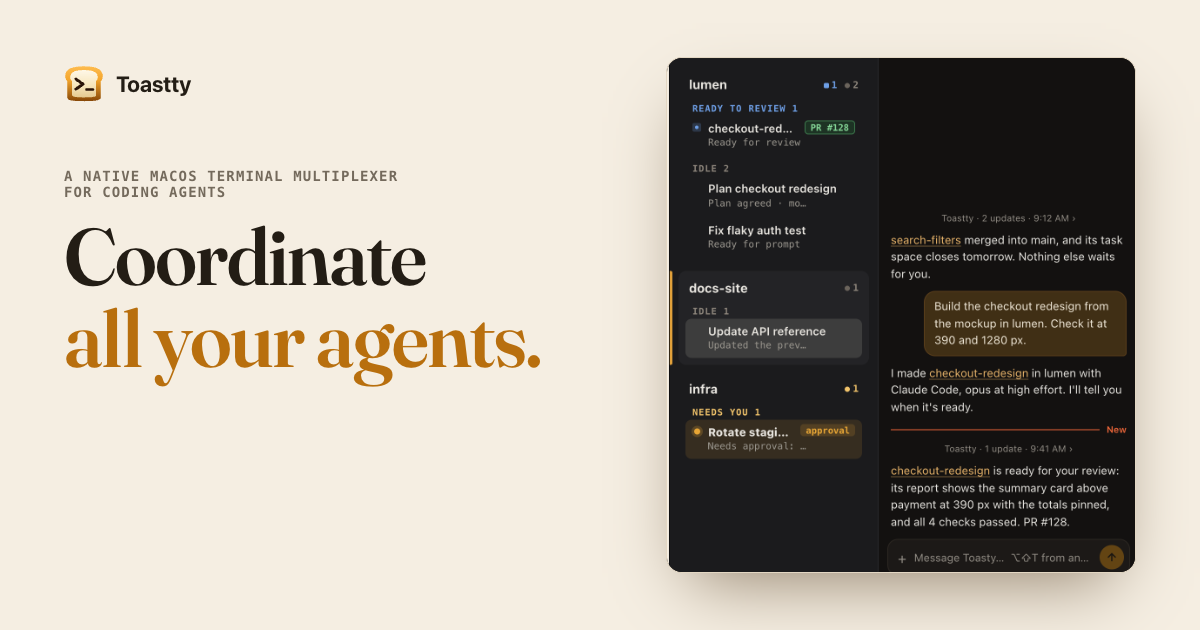
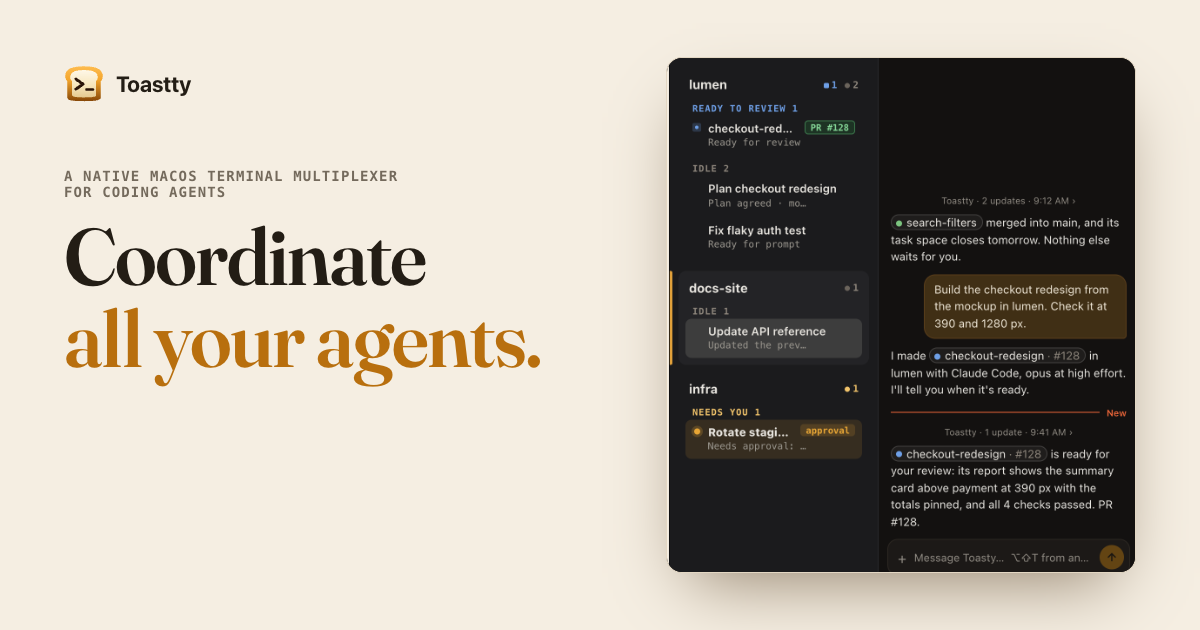
Match the website's recreations to the app's screenshots
Compared the recreations with the real app captures in pull request 416
and the app source:

- Tasks named in the coordinator's chat are chips with the task's stage
  mark and PR number, as the Mac and iPhone draw them, not underlined
  links. In the hero, the chips follow the task from starting to done.
- Quick entry's pills show an icon and "Auto" with no label, and the
  footer has the esc key and the Create button before Send.
- The Tasks view's detail pane shows the task's title and its request,
  Stage "Review", "PR #128 · open", the agent as "claude · opus", and
  Open Task Space, Open PR, Merge and Archive in the app's order. Review
  rows show their status after the PR.
- Re-rendered the social card, whose close-up shows the dock.

Claude-Session: https://claude.ai/code/session_01Dn8sFjqtSaqdteQy24FTcG

Changed region(s): [[0.74, 0.3016, 0.9558, 0.8444]]

diff --git a/website/index.html b/website/index.html
@@ -63,6 +63,8 @@
   <symbol id="ic-expand" viewBox="0 0 24 24"><path d="M14 4h6v6"/><path d="M20 4l-7 7"/><path d="M10 20H4v-6"/><path d="M4 20l7-7"/></symbol>
   <symbol id="ic-hide-dock" viewBox="0 0 24 24"><path d="M4 4v16"/><path d="M20 12H9"/><path d="m13 7-5 5 5 5"/></symbol>
   <symbol id="ic-house" viewBox="0 0 24 24"><path d="M3 11.5 12 4l9 7.5"/><path d="M5.5 10v10h13V10"/><path d="M10 20v-5h4v5"/></symbol>
+  <symbol id="ic-grid4" viewBox="0 0 24 24"><rect x="3.5" y="3.5" width="7" height="7" rx="1.5"/><rect x="13.5" y="3.5" width="7" height="7" rx="1.5"/><rect x="3.5" y="13.5" width="7" height="7" rx="1.5"/><rect x="13.5" y="13.5" width="7" height="7" rx="1.5"/></symbol>
+  <symbol id="ic-sparkle" viewBox="0 0 24 24"><path d="M12 2.5C12.9 8 16 11.1 21.5 12C16 12.9 12.9 16 12 21.5C11.1 16 8 12.9 2.5 12C8 11.1 11.1 8 12 2.5Z"/></symbol>
   <symbol id="ic-merge" viewBox="0 0 24 24"><path d="M12 3v7c0 3-5 5-5 8v3"/><path d="M12 10c0 3 5 5 5 8v3"/><path d="m8.5 6.5 3.5-3.5 3.5 3.5"/></symbol>
 </svg>
 
@@ -144,14 +146,14 @@
           <div class="dock-h"><svg viewBox="0 0 16 16"><use href="#toasty-gold"/></svg><b>Coordinator</b><em id="dock-st">working</em><span><svg viewBox="0 0 24 24"><use href="#ic-expand"/></svg><svg viewBox="0 0 24 24"><use href="#ic-hide-dock"/></svg></span></div>
           <div class="dock-x">
             <div class="dock-dig always">Toastty · 2 updates · 9:12 AM ›</div>
-            <div class="dock-at always"><span class="tlink">search-filters</span> merged into main, and its task space closes tomorrow. Nothing else waits for you.</div>
+            <div class="dock-at always"><span class="tlink done">search-filters</span> merged into main, and its task space closes tomorrow. Nothing else waits for you.</div>
             <div class="dock-ub" data-at="2.8">Build the checkout redesign from the mockup in lumen. Check it at 390 and 1280 px.</div>
-            <div class="dock-at" data-at="3.9">I made <span class="tlink">checkout-redesign</span> in lumen with Claude Code, opus at high effort. I'll tell you when it's ready.</div>
+            <div class="dock-at" data-at="3.9">I made <span class="tlink tl-cr">checkout-redesign<span class="tl-d">&nbsp;·&nbsp;#128</span></span> in lumen with Claude Code, opus at high effort. I'll tell you when it's ready.</div>
             <div class="dock-new" data-at="15.0" data-until="19.8">New</div>
             <div class="dock-dig" data-at="15.0">Toastty · 1 update · 9:41 AM ›</div>
-            <div class="dock-at" data-at="15.4"><span class="tlink">checkout-redesign</span> is ready for your review: its report shows the summary card above payment at 390 px with the totals pinned, and all 4 checks passed. PR #128.</div>
+            <div class="dock-at" data-at="15.4"><span class="tlink tl-cr">checkout-redesign<span class="tl-d">&nbsp;·&nbsp;#128</span></span> is ready for your review: its report shows the summary card above payment at 390 px with the totals pinned, and all 4 checks passed. PR #128.</div>
             <div class="dock-ub" data-at="19.8">merge it</div>
-            <div class="dock-at" data-at="20.6">Asked <span class="tlink">checkout-redesign</span>'s agent to merge PR #128.</div>
+            <div class="dock-at" data-at="20.6">Asked <span class="tlink tl-cr">checkout-redesign<span class="tl-d">&nbsp;·&nbsp;#128</span></span>'s agent to merge PR #128.</div>
             <div class="dock-wk" id="dock-wk"><span class="spin"></span><span id="dock-wk-t">working · 1s</span></div>
           </div>
           <div class="dock-f" id="dock-f"><span class="plus">+</span><span class="dock-in"><span class="dock-ph" id="dock-ph">Message Toasty…&nbsp;&nbsp;⌥⇧T from anywhere</span><span id="dock-typed"></span><span class="caret"></span></span><span class="dock-send" id="dock-send"><svg viewBox="0 0 24 24"><path d="M12 19V5"/><path d="m5 12 7-7 7 7"/></svg><i></i></span></div>
@@ -462,10 +464,10 @@
             <div class="cc-h"><svg viewBox="0 0 16 16"><use href="#toasty-gold"/></svg><b>Coordinator</b><span><svg viewBox="0 0 24 24"><use href="#ic-expand"/></svg><svg viewBox="0 0 24 24"><use href="#ic-hide-dock"/></svg></span></div>
             <div class="dock-x">
               <div class="dock-ub always">Add a CSV export to the orders page, like this mockup.<small>▣ csv-export.png</small></div>
-              <div class="dock-at always">I made <span class="tlink">csv-export</span> in lumen with Codex, at high effort. I'll tell you when it's ready.</div>
+              <div class="dock-at always">I made <span class="tlink run">csv-export</span> in lumen with Codex, at high effort. I'll tell you when it's ready.</div>
               <div class="dock-new always">New</div>
               <div class="dock-dig always">Toastty · 1 update · 10:52 AM ›</div>
-              <div class="dock-at always"><span class="tlink">checkout-redesign</span> is ready for your review: the report shows the summary card above payment at 390 px, and all 4 checks passed. PR #128.</div>
+              <div class="dock-at always"><span class="tlink rev has-pr">checkout-redesign<span class="tl-d">&nbsp;·&nbsp;#128</span></span> is ready for your review: the report shows the summary card above payment at 390 px, and all 4 checks passed. PR #128.</div>
             </div>
             <div class="cc-f">Message Toasty…<b>⌥⇧T from anywhere</b></div>
           </div>
@@ -475,14 +477,14 @@
       <p>Toasty is an agent that follows your tasks. It picks the project and the agent, keeps stuck work moving, and brings you what is ready. Its chat stays docked beside your work; <kbd>⇧⌘K</kbd> opens it.</p>
     </div>
     <div>
-      <div class="tshot" role="img" aria-label="Quick entry over another app, sending to the coordinator: a sentence about the coupon row, an attached screenshot, Workspace and Agent left on Auto, and Send.">
+      <div class="tshot" role="img" aria-label="Quick entry over another app, sending to the coordinator: a sentence about the coupon row, an attached screenshot, the workspace and agent left on Auto, and the Create and Send buttons.">
         <div class="tshot-in">
           <div class="qe-desk"><div class="qe-app"><div class="bar"><i></i><i></i><i></i></div><div class="ln2" style="width:40%"></div><div class="ln2"></div><div class="shot2"></div></div></div>
           <div class="qe">
             <div class="qe-h"><i></i>TO COORDINATOR</div>
             <div class="qe-t">The coupon row hides under the totals bar at 390 px. Screenshot attached.</div>
             <div class="qe-a"><span class="qe-file"><i></i>Screenshot 10.42.png</span><span class="qe-add">+ Attach <span class="qe-k">⌘V</span></span></div>
-            <div class="qe-f"><span class="qe-pill">Workspace <b>Auto</b> <span class="qe-k">⌘1</span></span><span class="qe-pill">Agent <b>Auto</b> <span class="qe-k">⌘2</span></span><span class="qe-go">Send <span class="qe-k">⌘↩</span></span></div>
+            <div class="qe-f"><span class="qe-pill"><svg viewBox="0 0 24 24"><use href="#ic-grid4"/></svg><b>Auto</b> <span class="qe-k">⌘1</span></span><span class="qe-pill"><svg viewBox="0 0 24 24"><use href="#ic-sparkle"/></svg><b>Auto</b> <span class="qe-k">⌘2</span></span><span class="qe-k qe-esc">esc</span><span class="qe-btn">Create <span class="qe-k">⌥⌘↩</span></span><span class="qe-go">Send <span class="qe-k">⌘↩</span></span></div>
           </div>
         </div>
       </div>
@@ -498,17 +500,18 @@
               <div class="tv-g y">NEEDS YOU 1</div>
               <div class="tv-r"><span class="tmark q">?</span><b>api-v2-reference</b><em>8m</em><small><span class="ws">docs-site</span>Asks: Keep the v1 payload page?</small></div>
               <div class="tv-g bl">READY TO REVIEW 2</div>
-              <div class="tv-r sel"><span class="tmark rev"></span><b>checkout-redesign</b><em>now</em><small><span class="ws">lumen</span><span class="pr">PR #128</span>feat/checkout-redesign</small></div>
-              <div class="tv-r"><span class="tmark rev"></span><b>coupon-row-fix</b><em>4m</em><small><span class="ws">lumen</span><span class="pr">PR #131</span>fix/coupon-row-fix</small></div>
+              <div class="tv-r sel"><span class="tmark rev"></span><b>checkout-redesign</b><em>now</em><small><span class="ws">lumen</span><span class="pr">PR #128</span>Ready for your review</small></div>
+              <div class="tv-r"><span class="tmark rev"></span><b>coupon-row-fix</b><em>4m</em><small><span class="ws">lumen</span><span class="pr">PR #131</span>Ready for your review</small></div>
               <div class="tv-g">RUNNING 1</div>
               <div class="tv-r"><span class="spin"></span><b>csv-export</b><em>1m</em><small><span class="ws">lumen</span>Moving to worktree</small></div>
               <div class="tv-g pu">TO SHIP 1</div>
             </div>
             <div class="tv-d">
               <div class="tv-src">Created by an agent · 24m ago · lumen</div>
-              <h4>Build the checkout redesign from the mockup in lumen</h4>
-              <div class="tv-card"><div class="hd">STATUS</div><dl><dt>Stage</dt><dd>Ready to review</dd><dt>PR</dt><dd>#128 · <span class="ok">checks passed</span></dd><dt>Branch</dt><dd class="mono2">feat/checkout-redesign</dd><dt>Agent</dt><dd>Claude Code · opus · high</dd></dl></div>
-              <div class="tv-b"><span class="tv-btn pri">Merge</span><span class="tv-btn">Open Task Space</span><span class="tv-btn">Open PR #128</span><span class="tv-btn">Archive…</span></div>
+              <h4>checkout-redesign</h4>
+              <div class="tv-req">Build the checkout redesign from the mockup in lumen.</div>
+              <div class="tv-card"><div class="hd">STATUS</div><dl><dt>Stage</dt><dd>Review</dd><dt>PR</dt><dd>PR #128 · open</dd><dt>Branch</dt><dd class="mono2">feat/checkout-redesign</dd><dt>Agent</dt><dd>claude · opus</dd></dl></div>
+              <div class="tv-b"><span class="tv-btn pri">Open Task Space</span><span class="tv-btn">Open PR #128</span><span class="tv-btn pri">Merge</span><span class="tv-btn">Archive…</span></div>
             </div>
           </div>
         </div>
@@ -639,14 +642,14 @@
               <div class="screen coord" id="s-coord">
                 <div class="chead"><b><svg viewBox="0 0 16 16"><use href="#toasty-gold"/></svg>Coordinator <span>⌄</span></b><small>· claude</small></div>
                 <div class="ctx">
-                  <div class="tr at always"><span class="tlink">search-filters</span> merged into main. Nothing else waits for you.</div>
+                  <div class="tr at always"><span class="tlink done">search-filters</span> merged into main. Nothing else waits for you.</div>
                   <div class="tr ub" data-at="11.4"><span>Add a CSV export to the orders page, like the mockup in lumen.</span></div>
-                  <div class="tr at" data-at="12.5">I made <span class="tlink">csv-export</span> in lumen with Codex, at high effort. I'll tell you when it's ready.</div>
+                  <div class="tr at" data-at="12.5">I made <span class="tlink run">csv-export</span> in lumen with Codex, at high effort. I'll tell you when it's ready.</div>
                   <div class="tr cnew" data-at="13.6" data-until="16.5">New</div>
                   <div class="tr cdig" data-at="13.6">Toastty · 1 update · 4:12 PM ›</div>
-                  <div class="tr at" data-at="14.0"><span class="tlink">checkout-redesign</span> is ready for your review: the report shows the summary card above payment at 390 px, and all 4 checks passed. PR #128.</div>
+                  <div class="tr at" data-at="14.0"><span class="tlink rev has-pr">checkout-redesign<span class="tl-d">&nbsp;·&nbsp;#128</span></span> is ready for your review: the report shows the summary card above payment at 390 px, and all 4 checks passed. PR #128.</div>
                   <div class="tr ub" data-at="16.5"><span>merge it</span></div>
-                  <div class="tr at" data-at="17.5">Asked <span class="tlink">checkout-redesign</span>'s agent to merge PR #128.</div>
+                  <div class="tr at" data-at="17.5">Asked <span class="tlink rev has-pr">checkout-redesign<span class="tl-d">&nbsp;·&nbsp;#128</span></span>'s agent to merge PR #128.</div>
                   <div class="tr wrow" id="cwrow"><span class="spin"></span><span id="cwrow-t">working · 1s</span></div>
                 </div>
                 <div class="comp" id="ccomp">

diff --git a/website/styles.css b/website/styles.css
@@ -309,7 +309,14 @@ h1 em { display: block; color: var(--amber); font-style: normal; }
 .dock-x > .show, .dock-x > .always { opacity: 1; max-height: 220px; margin-top: 10px; transform: none; }
 .dock-x > :not(.show):not(.always) { padding-top: 0; padding-bottom: 0; border-width: 0; }
 .dock-ub { align-self: flex-end; max-width: 86%; background: #402F15; border: 1px solid #5A3E1B; color: #F0E8D8; border-radius: 13px 13px 4px 13px; padding: 7px 11px; }
-.tlink { color: #E8B46A; text-decoration: underline; text-decoration-color: rgba(232, 180, 106, 0.45); text-underline-offset: 2px; }
+/* A task named in the coordinator's chat is a chip: its stage mark, its title and its PR number. */
+.tlink { white-space: nowrap; color: #ECE9E3; border: 1px solid rgba(255, 255, 255, 0.16); background: rgba(255, 255, 255, 0.05); border-radius: 999px; padding: 0 6px 0 5px; }
+.tlink::before { content: ""; display: inline-block; box-sizing: border-box; width: 7px; height: 7px; margin-right: 5px; border-radius: 50%; background: #8F877D; vertical-align: 0.04em; }
+.tlink.rev::before { background: #6E9FE6; }
+.tlink.done::before { background: #7CC47F; }
+.tlink.run::before { background: none; border: 1.4px solid #f0a53a; border-right-color: transparent; animation: spin 0.9s linear infinite; }
+.tlink .tl-d { color: #8F877D; }
+.tlink:not(.has-pr) .tl-d { display: none; }
 .dock-new { display: flex; align-items: center; gap: 8px; font: 600 10.5px var(--sans); color: #F2683A; }
 .dock-new::before { content: ""; flex: 1; height: 1px; background: #F2683A; }
 .dock-dig { align-self: center; font: 10.5px var(--sans); color: #928D85; }
@@ -374,12 +381,15 @@ h1 em { display: block; color: var(--amber); font-style: normal; }
 .qe-file i { width: 30px; height: 22px; border-radius: 4px; background: linear-gradient(180deg, #f4f5f7 0 60%, #f2c4c5 60%); }
 .qe-add { border: 1px dashed #4a4a50; border-radius: 8px; padding: 3px 10px; font: 12px var(--sans); color: #9b978f; }
 .qe-f { display: flex; align-items: center; gap: 8px; padding: 10px 12px; border-top: 1px solid #343438; }
-.qe-pill { display: inline-flex; align-items: center; gap: 6px; border: 1px solid #4a3d22; background: #2a2215; border-radius: 7px; padding: 3px 8px; font: 12px var(--sans); color: #b9b4aa; white-space: nowrap; }
-.qe-pill b { color: #b9b4aa; font-weight: 500; }
+.qe-pill { display: inline-flex; align-items: center; gap: 6px; border: 1px solid #3c3c40; border-radius: 7px; padding: 3px 8px; font: 12px var(--sans); color: #9b978f; white-space: nowrap; }
+.qe-pill svg { width: 11px; height: 11px; fill: none; stroke: #9b978f; stroke-width: 2; stroke-linejoin: round; }
+.qe-pill b { color: #9b978f; font-weight: 500; }
+.qe-esc { margin-left: auto; }
+.qe-btn { display: inline-flex; align-items: center; gap: 8px; border: 1px solid #3c3c40; color: #d9d5cd; font: 500 12.5px var(--sans); border-radius: 7px; padding: 4px 9px; white-space: nowrap; }
 .qe-k { font: 600 9.5px/1.5 var(--mono); color: #9b978f; border: 1px solid #4a4a50; border-radius: 4px; padding: 0 4px; }
-.qe-go { margin-left: auto; display: inline-flex; align-items: center; gap: 8px; background: #F5A623; color: #1a1206; font: 600 12.5px var(--sans); border-radius: 7px; padding: 5px 10px; }
+.qe-go { display: inline-flex; align-items: center; gap: 8px; background: #F5A623; color: #1a1206; font: 600 12.5px var(--sans); border-radius: 7px; padding: 5px 10px; }
 .qe-go .qe-k { color: #1a1206; border-color: rgba(26, 18, 6, 0.4); }
-.tv { position: absolute; inset: 0; display: grid; grid-template-columns: 1.3fr 1fr; background: #101011; color: #ece9e3; font: 12px/1.4 var(--sans); }
+.tv { position: absolute; inset: 0; display: grid; grid-template-columns: 1.1fr 1fr; background: #101011; color: #ece9e3; font: 12px/1.4 var(--sans); }
 .tv-l { padding: 14px 0; min-width: 0; }
 .tv-ttl { display: flex; justify-content: space-between; font: 700 14px var(--sans); padding: 0 16px 6px; }
 .tv-ttl span { color: #8F877D; font-weight: 400; }
@@ -395,18 +405,18 @@ h1 em { display: block; color: var(--amber); font-style: normal; }
 .tv-r .ws { font: 9.5px var(--sans); color: #cfcac1; background: #2a2a2e; border-radius: 3px; padding: 0 4px; }
 .tv-r .pr { color: #86d898; }
 .tv-r .spin { width: 9px; height: 9px; }
-.tv-d { border-left: 1px solid #232326; padding: 14px; min-width: 0; }
+.tv-d { border-left: 1px solid #232326; padding: 14px 12px; min-width: 0; }
 .tv-src { font: 10px var(--sans); color: #8F877D; }
 .tv-d h4 { font: 700 13px/1.3 var(--sans); margin: 5px 0 10px; }
+.tv-req { font: 11px/1.4 var(--sans); color: #c9c4ba; margin: -4px 0 10px; }
 .tv-card { border: 1px solid #2a2a2e; background: #18181a; border-radius: 7px; margin-bottom: 10px; }
 .tv-card .hd { font: 600 9px var(--mono); letter-spacing: 0.1em; color: #8F877D; padding: 6px 9px; border-bottom: 1px solid #2a2a2e; }
 .tv-card dl { display: grid; grid-template-columns: 46px minmax(0, 1fr); gap: 4px 8px; margin: 0; padding: 8px 9px; font-size: 11px; }
 .tv-card dt { color: #8F877D; }
 .tv-card dd { margin: 0; white-space: nowrap; overflow: hidden; text-overflow: ellipsis; }
 .tv-card .mono2 { font: 10.5px var(--mono); }
-.tv-card .ok { color: #86d898; }
 .tv-b { display: flex; flex-wrap: wrap; gap: 6px; }
-.tv-btn { font: 500 11px var(--sans); border: 1px solid #383838; border-radius: 6px; padding: 4px 9px; color: #ece9e3; white-space: nowrap; }
+.tv-btn { font: 500 10.5px var(--sans); border: 1px solid #383838; border-radius: 6px; padding: 3px 6px; color: #ece9e3; white-space: nowrap; }
 .tv-btn.pri { background: #F5A623; color: #1a1206; border-color: #F5A623; font-weight: 600; }
 
 /* ---------- Beat strip ---------- */
@@ -562,7 +572,7 @@ a { color: inherit; }
 /* Paused or offscreen: freeze the stage's CSS animations along with its timeline. */
 .stage.paused *, .stage.paused *::before { animation-play-state: paused !important; }
 @media (prefers-reduced-motion: reduce) {
-  .stage *, .stage *::before, .sbdemo *, .tshot * { animation: none !important; transition: none !important; }
+  .stage *, .stage *::before, .sbdemo *, .tshot *, .tshot *::before { animation: none !important; transition: none !important; }
 }
 
 /* ---------- Toastty Mobile ----------

diff --git a/website/hero.js b/website/hero.js
@@ -38,6 +38,7 @@
     var viewEls = { lumen: $('view-lumen'), child: $('view-child'), docs: $('view-docs') };
     var cardLumen = $('card-lumen'), cardDocs = $('card-docs'), rowDocs = $('row-docs');
     var docsS = $('docs-s'), docsIc = $('docs-ic'), docsBkt = $('docs-bkt'), docsHc = $('docs-hc'), lumenHc = $('lumen-hc'), segRev = $('seg-rev');
+    var crChips = Array.prototype.slice.call(stage.querySelectorAll('.tl-cr'));
     var rowSub = $('row-sub'), subS = $('sub-s'), subIc = $('sub-ic'), subPr = $('sub-pr'), subEl = $('sub-el'), subBkt = $('sub-bkt');
     var wtitle = $('wtitle'), phead = $('phead');
     var dockSt = $('dock-st'), dockWk = $('dock-wk'), dockWkT = $('dock-wk-t'), dockF = $('dock-f'), dockPh = $('dock-ph'), dockTyped = $('dock-typed'), dockSend = $('dock-send');
@@ -114,6 +115,13 @@
       setText(subS, pick(SUB_S));
       setHTML(subIc, done ? '<span class="tmark done">✓</span>' : ready ? '<span class="tmark rev"></span>' : starting ? '<span class="tmark start"></span>' : '<span class="spin"></span>');
       subPr.classList.toggle('show', ready || merging || done);
+      // Toasty's chips for the task follow it, as the app's do: its stage mark and, once it has one, its PR.
+      crChips.forEach(function (c) {
+        c.classList.toggle('run', working && !starting && t >= 4.0);
+        c.classList.toggle('rev', ready || merging);
+        c.classList.toggle('done', done);
+        c.classList.toggle('has-pr', ready || merging || done);
+      });
       var secs = Math.round(Math.max(0, Math.min(t, READY) - 4.0) * 25 + 4);
       setText(subEl, Math.floor(secs / 60) + 'm ' + ('0' + (secs % 60)).slice(-2) + 's');
       subEl.style.display = t < READY ? '' : 'none';
